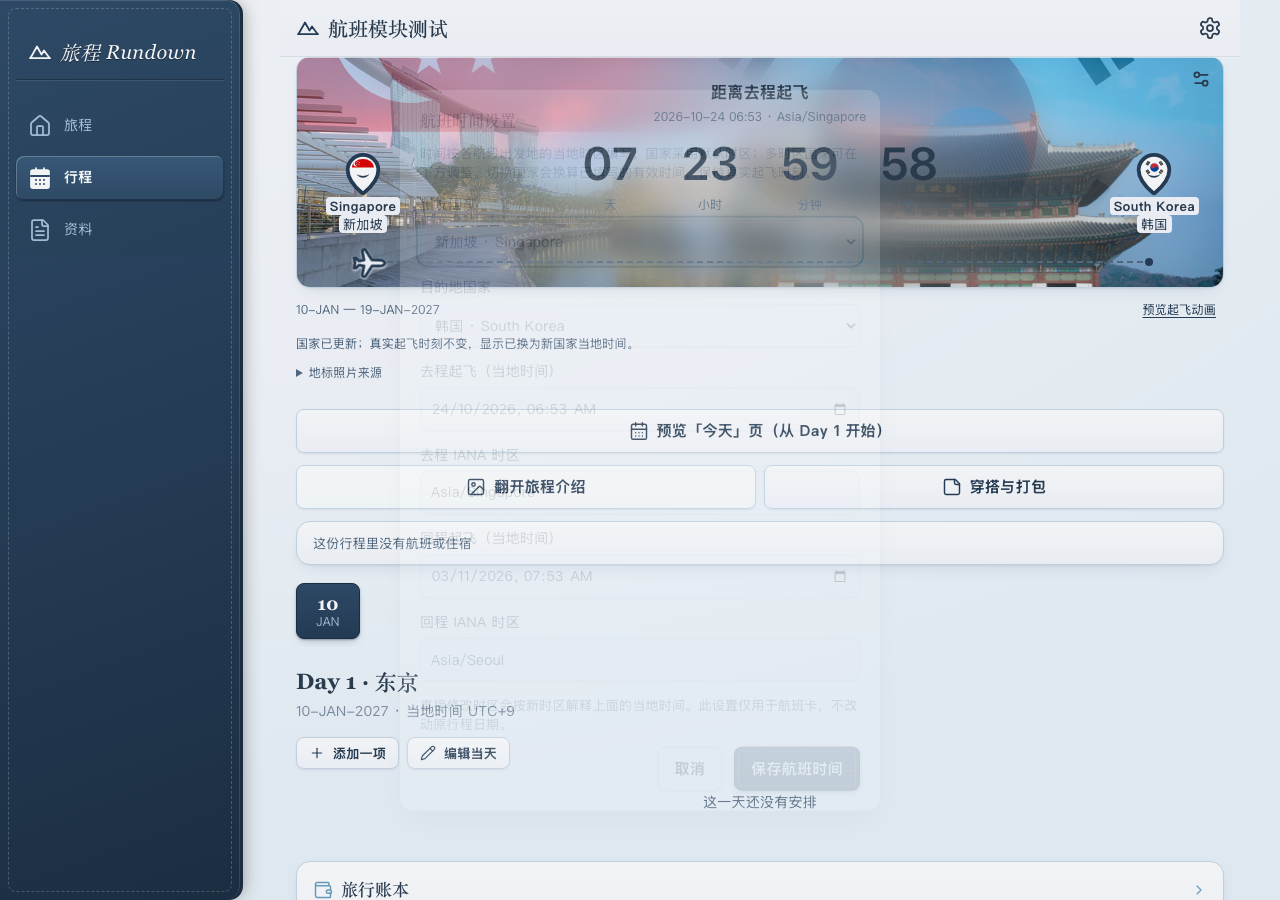
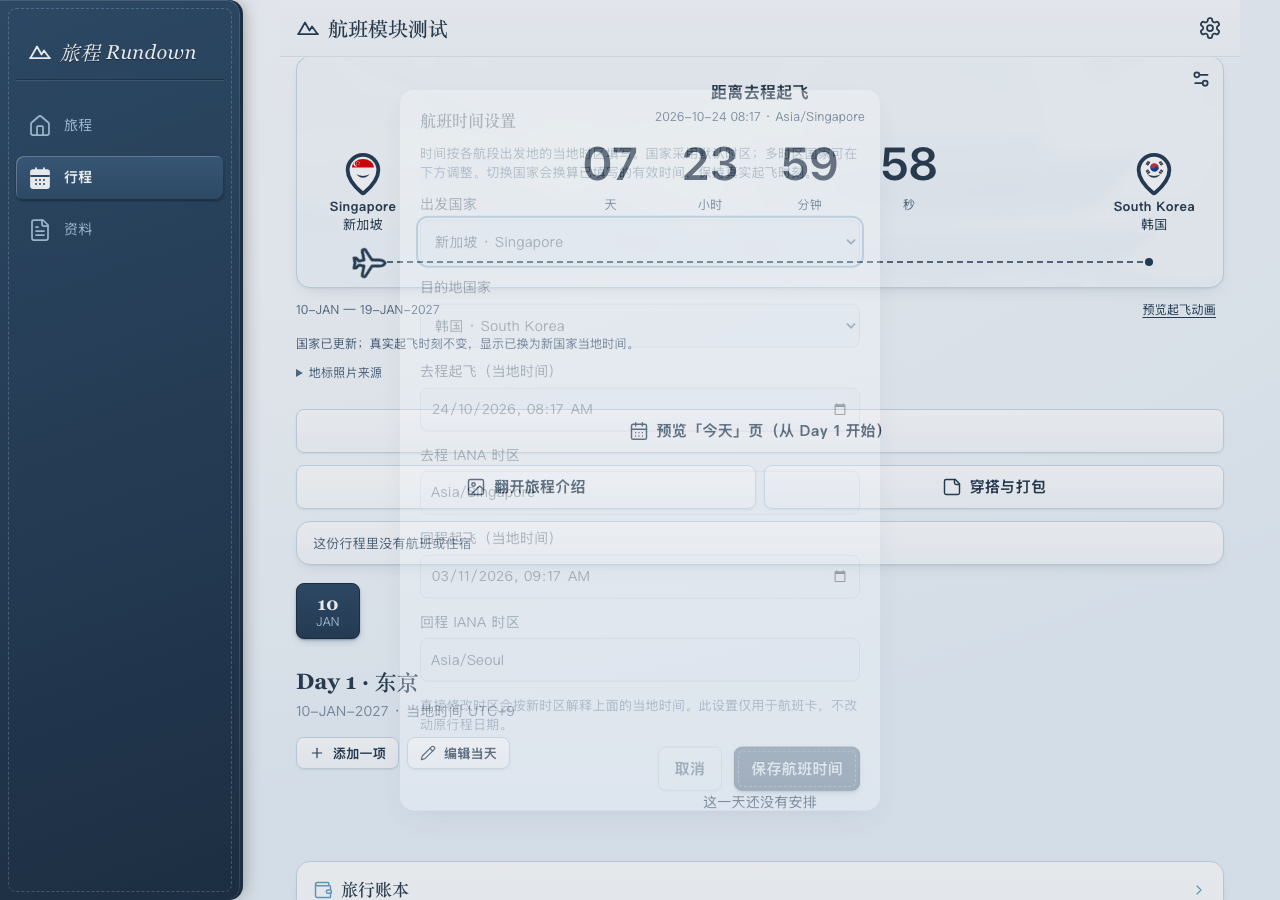
Blend monochrome flight scenery softly into the current theme

diff --git a/src/components/FlightCountdown.module.css b/src/components/FlightCountdown.module.css
@@ -1,10 +1,10 @@
 .module { margin: 0 0 var(--space-2); width: 100%; min-width: 0; }
 .card { position: relative; isolation: isolate; min-height: 310px; overflow: hidden; border-radius: var(--radius-md); border: 1px solid var(--color-border); background: var(--color-surface-subtle); box-shadow: var(--shadow-card); color: var(--color-text); }
-.scenery { position: absolute; inset: 0; z-index: -1; pointer-events: none; }
+.scenery { position: absolute; inset: -8px; z-index: -1; pointer-events: none; filter: grayscale(1) blur(4px); opacity: .8; mix-blend-mode: soft-light; }
 .leftImage, .rightImage { position: absolute; top: 0; bottom: 0; width: 64%; overflow: hidden; }
 .leftImage { left: 0; z-index: 1; -webkit-mask-image: linear-gradient(to right, black 56.25%, transparent); mask-image: linear-gradient(to right, black 56.25%, transparent); }
 .rightImage { right: 0; }
-.landmark { width: 100%; height: 100%; object-fit: cover; opacity: .94; }
+.landmark { width: 100%; height: 100%; object-fit: cover; opacity: 1; }
 .flag { position: absolute; top: 0; width: 100%; height: 65%; object-fit: cover; opacity: .3; mask-image: linear-gradient(to bottom, black 45%, transparent); }
 .leftImage .flag { left: 0; }.rightImage .flag { right: 0; }
 .information { position: relative; margin: 0 auto; padding: 28px 12px 122px; text-align: center; width: 100%; background: transparent; }
@@ -53,6 +53,5 @@
 
 /* Two photographs overlap across the middle; blur the composite, never erase it. */
 .blend { position: absolute; z-index: 2; inset: 0; filter: blur(14px); -webkit-mask-image: linear-gradient(to right, transparent, black 38% 62%, transparent); mask-image: linear-gradient(to right, transparent, black 38% 62%, transparent); }
-.blend::after { content: ''; position: absolute; z-index: 2; inset: 0; background: color-mix(in srgb, var(--color-surface-subtle) 28%, transparent); }
 .footer { display: flex; align-items: center; flex-wrap: wrap; gap: var(--space-2); font-size: var(--fs-caption); color: var(--color-text-2); }
 .preview { margin-left: auto; min-height: 44px; padding: 0 8px; color: var(--color-primary); text-decoration: underline; text-underline-offset: 3px; }

diff --git a/docs/flight-countdown/README.md b/docs/flight-countdown/README.md
@@ -39,3 +39,6 @@
 所有原功能代码按最新 main 保留；本次 main 的 #26 行程编辑功能不属于本 PR。
 
 韩国固定地标采用景福宫（规格中的首尔塔为建议项）。首尔塔候选照片带建筑版权限制或主体不清晰；景福宫采用有明确 CC0 许可的实景，仍保持每国一图。
+
+## 背景柔光调整（2026-10-16）
+按用户后续要求，整个背景合成层使用 grayscale(1)、opacity: .8、mix-blend-mode: soft-light，并整体 blur(4px)。模糊百分比不是 CSS 标准值，4px 作为所述 20% 的轻度模糊解释；保留中心融合。Pin、正文和飞机不参与滤镜。只改本模块背景 CSS，未改数据或动画。
